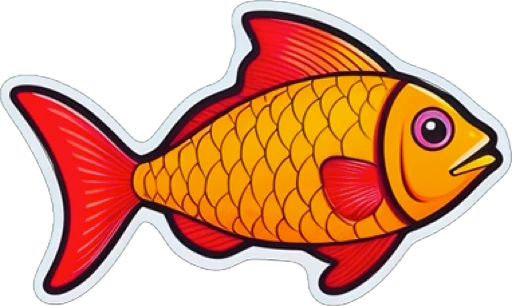
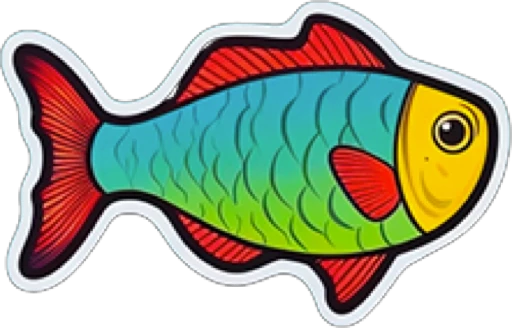
:sparkles: funcionalidade de inserção básica dos peixes no aquário

diff --git a/src/components/selecao-de-peixes/SelecaoDePeixes.vue b/src/components/selecao-de-peixes/SelecaoDePeixes.vue
@@ -1,13 +1,7 @@
 <script setup lang="ts">
-import { ref } from 'vue'
-
-// Array de estado reativo para controlar o clique de cada item da lista
-const isClicked = ref<number | null>(null)
-
-// Função para alternar o efeito de clique baseado no índice do item
-const toggleEffect = (index: number) => {
-  isClicked.value = index
-}
+import Button from 'primevue/button'
+import InputText from 'primevue/inputtext'
+import { indexDaImagem, selecionarPeixe, enviarForm, nomeDoPeixe } from './SelecaoDePeixes'
 </script>
 
 <template>
@@ -15,27 +9,49 @@ const toggleEffect = (index: number) => {
     <section>
       <h1>Fish Types</h1>
       <ul>
-        <li :class="['elemento', { clicado: isClicked === 0 }]" @click="toggleEffect(0)">
-          <img class="ImagemPeixe" src="../../assets/imagens/modelo_peixe_1.webp" alt="Peixe 1" />
+        <li :class="['elemento', { clicado: indexDaImagem === 0 }]" @click="selecionarPeixe(0)">
+          <img class="ImagemPeixe" src="../../assets/imagens/modelo_peixe_0.webp" alt="Peixe 1" />
         </li>
-        <li :class="['elemento', { clicado: isClicked === 1 }]" @click="toggleEffect(1)">
+        <li :class="['elemento', { clicado: indexDaImagem === 1 }]" @click="selecionarPeixe(1)">
+          <img class="ImagemPeixe" src="../../assets/imagens/modelo_peixe_1.webp" alt="" />
+        </li>
+        <li :class="['elemento', { clicado: indexDaImagem === 2 }]" @click="selecionarPeixe(2)">
           <img class="ImagemPeixe" src="../../assets/imagens/modelo_peixe_2.webp" alt="" />
         </li>
-        <li :class="['elemento', { clicado: isClicked === 2 }]" @click="toggleEffect(2)">
+        <li :class="['elemento', { clicado: indexDaImagem === 3 }]" @click="selecionarPeixe(3)">
           <img class="ImagemPeixe" src="../../assets/imagens/modelo_peixe_3.webp" alt="" />
         </li>
-        <li :class="['elemento', { clicado: isClicked === 3 }]" @click="toggleEffect(3)">
+        <li :class="['elemento', { clicado: indexDaImagem === 4 }]" @click="selecionarPeixe(4)">
           <img class="ImagemPeixe" src="../../assets/imagens/modelo_peixe_4.webp" alt="" />
         </li>
-        <li :class="['elemento', { clicado: isClicked === 4 }]" @click="toggleEffect(4)">
-          <img class="ImagemPeixe" src="../../assets/imagens/modelo_peixe_5.webp" alt="" />
-        </li>
       </ul>
+    </section>
+
+    <section>
+      <form @submit.prevent="enviarForm">
+        <div class="containerForm">
+          <label for="">Name</label>
+          <InputText type="text" v-model="nomeDoPeixe" />
+          <Button type="submit" label="Add Fish" severity="danger"></Button>
+        </div>
+      </form>
     </section>
   </main>
 </template>
 
 <style scoped>
+main {
+  color: white;
+}
+
+.containerForm {
+  display: flex;
+  flex-direction: column;
+  row-gap: 1rem;
+  width: 95%;
+  padding-top: 2em;
+}
+
 h1 {
   color: white;
   font-weight: bold;

diff --git a/src/components/peixe-nadando/PeixeNadando.vue b/src/components/peixe-nadando/PeixeNadando.vue
@@ -1,0 +1,42 @@
+<script setup lang="ts">
+import { defineProps } from 'vue'
+
+// Definir a prop 'peixe' para receber os dados do componente pai
+const props = defineProps({
+  peixe: Object // 'peixe' é o nome da prop que você espera
+})
+</script>
+
+<template>
+  <figure>
+    <img
+      class="customizacao"
+      :src="peixe?.imagem"
+      alt="Peixe"
+      :style="{ transform: peixe?.direcao }"
+    />
+    <figcaption>{{ peixe?.nome }}</figcaption>
+  </figure>
+</template>
+
+<style scoped>
+figure {
+  width: 9.3em;
+}
+
+img {
+  width: 9.3em;
+}
+
+figcaption {
+  background-color: rgba(68, 68, 68, 0.8);
+  width: auto;
+  text-align: center;
+  border-radius: 5px;
+  padding: 5px;
+}
+
+.customizacao {
+  transform: scaleX(0);
+}
+</style>

diff --git a/src/components/aquario-fundo/AquarioFundo.vue b/src/components/aquario-fundo/AquarioFundo.vue
@@ -1,7 +1,12 @@
-<script setup lang="ts"></script>
+<script setup lang="ts">
+import PeixeNadando from '../peixe-nadando/peixeNadando.vue'
+import { aquarioArray } from './AquarioFundo'
+</script>
 
 <template>
-  <main id="ImagemFundo"></main>
+  <main id="ImagemFundo">
+    <PeixeNadando v-for="(item, index) in aquarioArray" :key="index" :peixe="item"> </PeixeNadando>
+  </main>
 </template>
 
 <style scoped>
@@ -12,5 +17,8 @@
   background-size: cover;
   background-position: center;
   background-repeat: no-repeat;
+  display: flex;
+  align-items: center;
+  justify-content: center;
 }
 </style>

diff --git a/src/components/selecao-de-peixes/SelecaoDePeixes.ts b/src/components/selecao-de-peixes/SelecaoDePeixes.ts
@@ -1,0 +1,17 @@
+import { ref } from 'vue'
+import { adicionarPeixes } from '../aquario-fundo/AquarioFundo'
+// Array de estado reativo para controlar o clique de cada item da lista
+export const indexDaImagem = ref<number | null>(null)
+
+export const nomeDoPeixe = ref('')
+
+export const enviarForm = () => {
+  const nome = nomeDoPeixe.value
+  const caminhoDaImagem = `src/assets/imagens/modelo_peixe_${indexDaImagem.value}.webp`
+  adicionarPeixes(nome, caminhoDaImagem)
+}
+
+export const selecionarPeixe = (index: number) => {
+  indexDaImagem.value = index
+  console.log(indexDaImagem.value)
+}

diff --git a/src/components/aquario-fundo/AquarioFundo.ts b/src/components/aquario-fundo/AquarioFundo.ts
@@ -1,3 +1,19 @@
-// export function saudacao(nome: string): string {
-//     return `Olá, ${nome}!`;
-//   }
+import { ref } from 'vue'
+import { Peixe } from '../peixe-nadando/peixeNadando'
+
+// Defina o tipo do array como um array de Peixe
+export const aquarioArray = ref<Peixe[]>([])
+
+export const imageWidth = ref(0)
+export const imageHeight = ref(0)
+
+export const pegarDimensoes = () => {
+  return {
+    largura: 1306,
+    altura: 944
+  }
+}
+
+export const adicionarPeixes = (nome: string, imagem: string) => {
+  aquarioArray.value.push(new Peixe(nome, imagem))
+}

diff --git a/src/components/peixe-nadando/PeixeNadando.ts b/src/components/peixe-nadando/PeixeNadando.ts
@@ -1,0 +1,19 @@
+export class Peixe {
+  nome = ''
+  tamanho = ''
+  imagem = ''
+  tempoParaAlimentar = 0
+  posicaoInicial = ''
+  direcao = ''
+
+  constructor(nome: string, imagem: string) {
+    this.nome = nome
+    this.imagem = imagem
+    this.direcaoInicial()
+  }
+
+  direcaoInicial() {
+    const numeroAleatorio = Math.random() < 0.5 ? -1 : 1
+    this.direcao = `scaleX(${numeroAleatorio})`
+  }
+}

diff --git a/src/main.ts b/src/main.ts
@@ -3,9 +3,17 @@ import './assets/main.css'
 import { createApp } from 'vue'
 import { createPinia } from 'pinia'
 import App from './App.vue'
+import PrimeVue from 'primevue/config'
+import Aura from '@primevue/themes/aura'
 
 const app = createApp(App)
 
 app.use(createPinia())
+
+app.use(PrimeVue, {
+  theme: {
+    preset: Aura
+  }
+})
 
 app.mount('#app')
